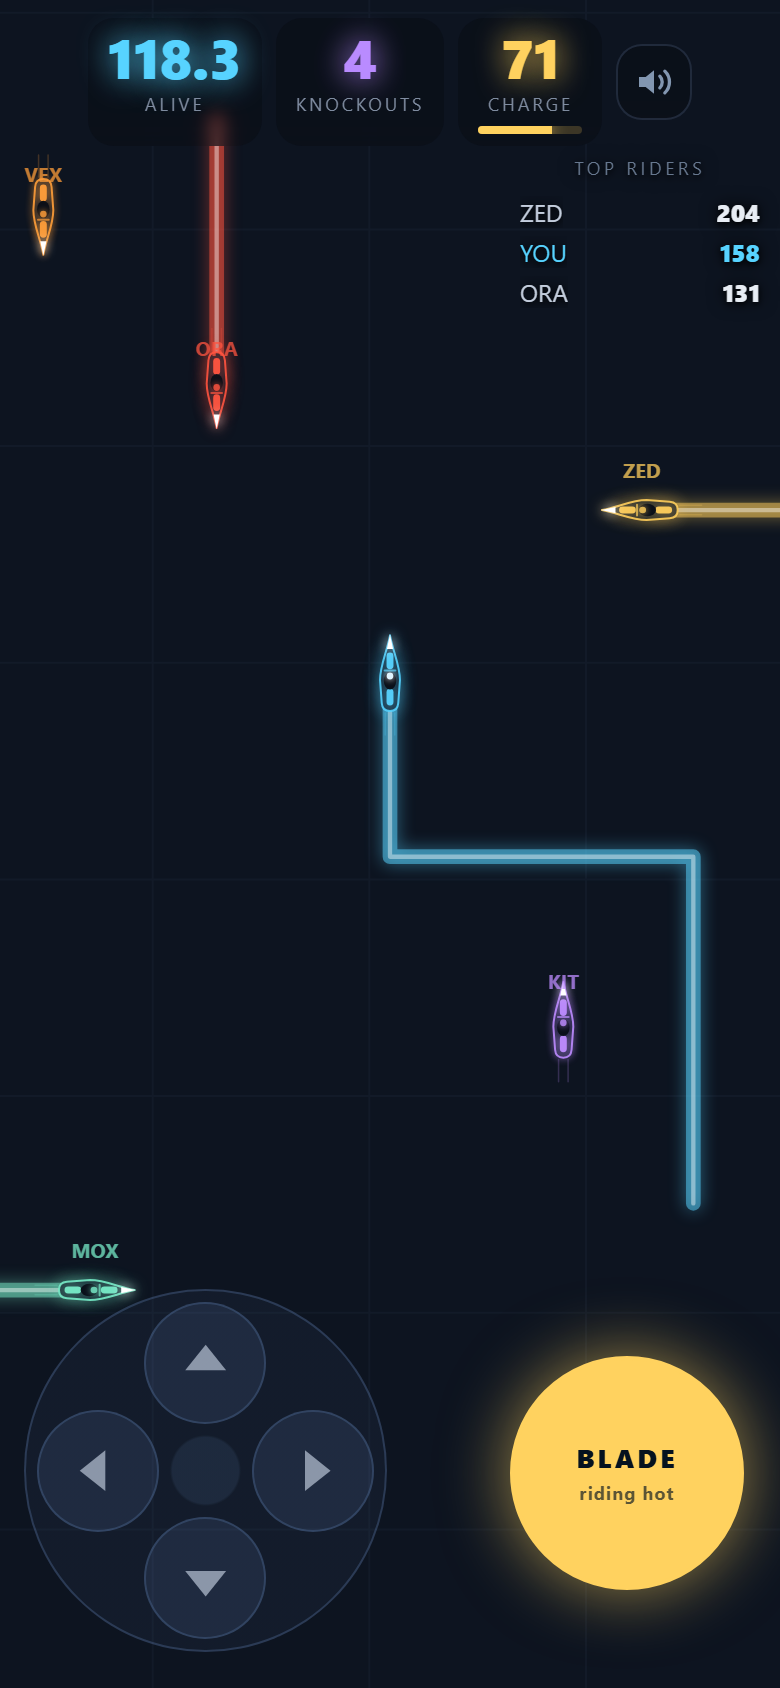
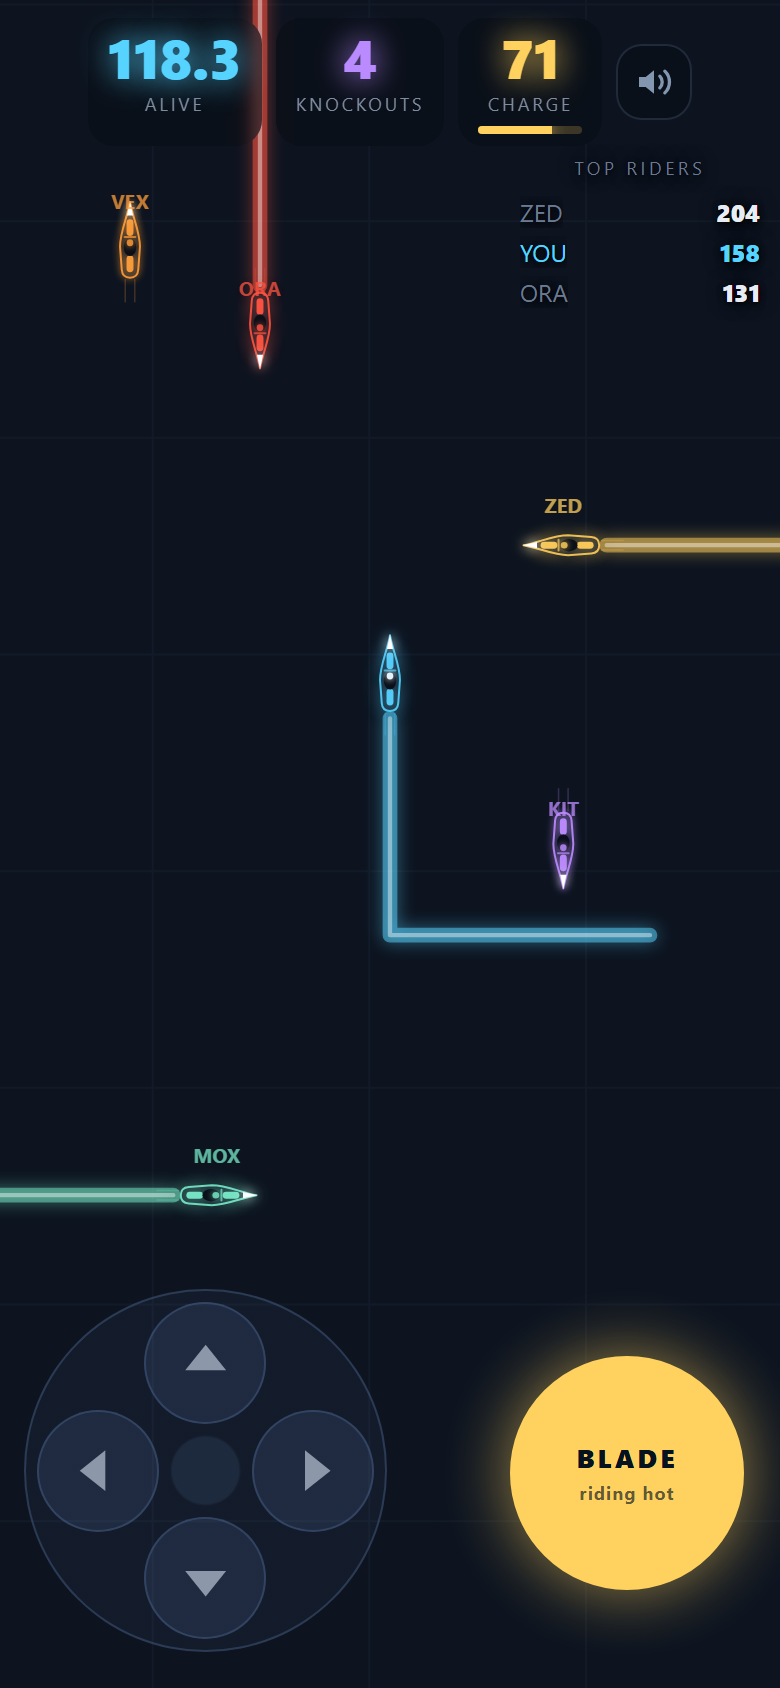
The last two press shots could not be retaken, and the strongest one was 33 points out
The two phone shots were hand-made on 30 Sep and were the only press images with no
script behind them, so they could not follow the game when its look moved. Worse, the
top-riders panel in both was typed in beside a HUD the page computes - two sources for
one number - and shot-2 had drifted: 141.6 alive and 5 knockouts is 191 by the game's
own rule, and its panel still read 158, the figure that had been right for shot-1.

press/make-phone-shot.py now redoes both from whatever index.html draws, the way the
menu and wide shots already are, and works your row out from the same myStart and myKos
the HUD reads, so the picture cannot disagree with itself again. The knockout shot is a
moment rather than a pose, so it seeds the page's own derez() and steps the page's own
frame() a quarter of a second rather than re-drawing the effect.

Measured on the way: headless Edge ignores --window-size for the layout viewport - 300,
320, 360, 390 and 500 all laid out at 484x752 - while --screenshot still writes
window-size x2. The first take lost the board's scores and half the BLADE button to
that. Everything is now moved into a 390x844 box with a transform on it, so that box is
what "fixed" is measured against.

diff --git a/press/make-phone-shot.py b/press/make-phone-shot.py
@@ -1,0 +1,186 @@
+"""Re-take press/shot-1-arena-phone.png and press/shot-2-knockout-phone.png from whatever index.html draws.
+
+Run it from the repo root: python press/make-phone-shot.py          (both shots)
+                           python press/make-phone-shot.py 2        (just the knockout one)
+
+These two were the last press images that could not be regenerated. They were shot by hand on 30 Sep,
+and the in-arena top-riders panel in them was TYPED IN next to a HUD the page computes - two sources
+for one number. It went stale exactly the way that always ends: shot-2 was retimed to 141.6 alive and
+5 knockouts, which is 191 by the game's own rule, and its panel still read 158 - the figure that had
+been right for shot-1. Off by 33 on the image the kit calls its strongest. Here your row is worked out
+from myStart and myKos the way the referee works it out, and the rows sort themselves after it, so the
+picture cannot disagree with itself again.
+
+How it works, the same way press/make-wide-shot.py and press/make-menu-shot.py do: index.html is copied
+to a scratch probe with requestAnimationFrame stubbed out, fetch left pending (nothing touches the live
+arena) and isTouch forced true, a hand-built arena is appended - no server, no socket - and headless Edge
+is asked for one screenshot at a phone's size. Quirks handled, all measured:
+  * HEADLESS EDGE IGNORES --window-size FOR THE LAYOUT VIEWPORT. Measured today at 300, 320, 360, 390 and
+    500 wide: every one laid the page out at 484x752 CSS, while --screenshot still wrote window-size x2
+    device pixels. So a phone-sized capture of a 484-wide page cut the right-hand third off - the first
+    take of this script lost the top-riders scores and half the BLADE button. The two older scripts never
+    noticed because what they shoot is centred. The fix is not to fight the window: everything is moved
+    into a 390x844 box with a transform on it, which makes that box - not the viewport - what the HUD,
+    the board, the pad and the BLADE button measure "fixed" against. --pad and --bl are pinned with it,
+    because they are written in vw and vw still means the viewport.
+  * Edge does not composite a canvas into --screenshot, so the probe hands it a plain <img> of the same
+    pixels (cv.toDataURL) BEHIND the controls, and hides the canvas. The pad and BLADE button are DOM.
+  * Back-to-back Edge runs write nothing at all, roughly every other try, hence the retry loop.
+  * Math.random is seeded before the derez, so the shards land in the same places every run and a
+    re-shoot is a re-shoot rather than a new picture.
+
+The knockout shot needs more than the mid-run one: it is a moment, not a pose, so it seeds the derez
+through the page's own derez() and then steps the page's own frame() a third of a second so the cubes
+have flown and the ring has raced out. Nothing about the effect is re-implemented here.
+"""
+import os, shutil, subprocess, sys, tempfile, time
+
+EDGE = r"C:/Program Files (x86)/Microsoft/Edge/Application/msedge.exe"
+HERE = os.path.dirname(os.path.abspath(__file__))
+ROOT = os.path.dirname(HERE)
+CSS_W, CSS_H, SCALE = 390, 844, 2     # 780x1688, the size of the two files this replaces
+
+# A phone-sized box for the page to live in, because the real viewport is whatever Edge feels like.
+# A transform on it makes it the containing block for everything position:fixed inside, so the HUD at
+# the top and the pad and BLADE button at the foot land where they land on a 390px phone. --pad and --bl
+# are vw, which a transform does not touch, so they are restated here at 46% and 30% of 390.
+FRAME = """
+<style>
+  html, body { margin: 0; overflow: hidden; background: #070a10; }
+  :root { --pad: 179.4px; --bl: 117px; }
+  #shotframe { position: fixed; left: 0; top: 0; width: %(w)dpx; height: %(h)dpx;
+               overflow: hidden; background: #070a10; transform: translateZ(0); }
+</style>
+<script>
+addEventListener('DOMContentLoaded', function () {
+  const fr = document.createElement('div');
+  fr.id = 'shotframe';
+  document.body.append(fr);
+  while (document.body.firstChild !== fr) fr.append(document.body.firstChild);
+});
+</script>
+""" % {"w": CSS_W, "h": CSS_H}
+
+# Shared by both scenes: the arena you are riding in, six bikes, two of them with nothing behind them
+# because the blade is off - which is the whole game and the reason both shots keep them.
+COMMON = """
+  const cell = (x, y) => y * W + x;
+  let born = 0;
+  function trail(id, x, y, legs) {
+    for (const [dx, dy, n] of legs) for (let i = 0; i < n; i++) { walls.set(cell(x, y), {o: id, born: born++}); x += dx; y += dy; }
+    return [x, y];
+  }
+  function bike(id, nm, x, y, d, blade, charge) {
+    bikes.set(id, {id, x, y, px: x, py: y, ox: x, oy: y, d, blade, charge});
+    names.set(id, {n: nm, bot: id !== 1 ? 1 : 0});
+  }
+  tick = 2400; tickAt = performance.now();
+  ws = {};                                   // rivals' names only draw for a real arena
+  me = 1; riding = true;
+  let seed = 90210;
+  Math.random = () => (seed = (seed * 1103515245 + 12345) & 0x7fffffff) / 0x80000000;
+"""
+
+# Your row is COMPUTED, never typed: score = whole seconds alive + 10 per knockout, read off the same
+# myStart and myKos the HUD above it reads. A hand-written number here is a second source for one number
+# and goes stale the moment the scene is retimed - which is what put 158 on a 191 picture.
+SHOW = """
+  const mine = Math.floor((tick - myStart) / 10) + 10 * myKos;
+  paintBoard(RIVALS.concat([['YOU', mine, 0]]).sort((a, b) => b[1] - a[1]).slice(0, 3));
+  $('overlay').hidden = true;
+  $('hud').hidden = $('board').hidden = $('blade').hidden = $('pad').hidden = false;
+  $('hint').hidden = true;                   // on a phone the hint is empty: the BLADE button says it
+  dpr = %(scale)d; cw = %(w)d; ch = %(h)d;
+  cv.style.width = cw + 'px'; cv.style.height = ch + 'px';
+  cv.width = cw * dpr; cv.height = ch * dpr;
+  paint();
+  for (let f = 0; f <= STEPS; f++) frame(f * 16);   // the page's own loop: ages the shards and the ring
+  draw();
+  const img = new Image();
+  img.src = cv.toDataURL('image/png');
+  img.style.cssText = 'position:fixed;left:0;top:0;width:' + cw + 'px;height:' + ch + 'px;z-index:0';
+  cv.style.display = 'none';
+  document.getElementById('shotframe').prepend(img);
+""" % {"scale": SCALE, "w": CSS_W, "h": CSS_H}
+
+# shot-1: mid-run. Your ribbon comes in along the bottom and turns up under you, a red rival is driving
+# straight down at it from above, and two riders are carrying nothing at all.
+SHOT1 = """
+  myStart = tick - 1183; myKos = 4;          // 118.3 alive + 4 knockouts = 158
+  const RIVALS = [['ZED', 204, 1], ['ORA', 131, 1], ['MOX', 96, 1], ['KIT', 74, 1]];
+  const STEPS = 0;
+  born = tick - 55; let p = trail(1, 26, 36, [[-1, 0, 6], [0, -1, 6]]);
+  bike(1, 'YOU', p[0], p[1], 'U', true, 71);
+  born = tick - 50; p = trail(1005, 17, 14, [[0, 1, 8]]);    // ORA, red, coming down at your ribbon
+  bike(1005, 'ORA', p[0], p[1], 'D', true, 44);
+  born = tick - 46; p = trail(1004, 34, 27, [[-1, 0, 10]]);  // ZED, amber, crossing from the right
+  bike(1004, 'ZED', p[0], p[1], 'L', true, 62);
+  born = tick - 24; p = trail(1007, 10, 42, [[1, 0, 6]]);    // MOX, mint, along the bottom left
+  bike(1007, 'MOX', p[0], p[1], 'R', true, 85);
+  bike(1006, 'KIT', 24, 34, 'D', false, 100);                // blade off: nothing behind him at all
+  bike(1002, 'VEX', 14, 20, 'U', false, 53);
+"""
+
+# shot-2: the moment a rival rides into your wall and comes apart. Seeded through the page's own derez()
+# at the oldest end of your ribbon - the end a rival chasing you from behind would reach first - and his
+# own wall is gone, because a knocked-out rider's wall goes with him.
+SHOT2 = """
+  myStart = tick - 1416; myKos = 5;          // 141.6 alive + 5 knockouts = 191
+  const RIVALS = [['ZED', 204, 1], ['ORA', 131, 1], ['MOX', 96, 1]];
+  const STEPS = 15;                          // ~0.24s: the cubes have flown and the ring is still bright
+  born = tick - 55; let p = trail(1, 12, 36, [[1, 0, 8], [0, -1, 6]]);
+  bike(1, 'YOU', p[0], p[1], 'U', true, 58);
+  born = tick - 44; p = trail(1004, 32, 24, [[-1, 0, 11]]);  // ZED, amber, across the top
+  bike(1004, 'ZED', p[0], p[1], 'L', true, 66);
+  born = tick - 20; p = trail(1007, 22, 40, [[1, 0, 5]]);    // MOX, mint, away to the lower right
+  bike(1007, 'MOX', p[0], p[1], 'R', true, 81);
+  bike(1006, 'KIT', 15, 27, 'D', false, 100);                // blade off: nothing behind him
+  bike(1002, 'VEX', 13, 21, 'D', false, 47);
+  // ORA came down onto the ribbon you had just laid, four cells behind you - close enough that the
+  // ring and the cubes sit inside the frame rather than half off the left edge, which is where a
+  // crash at the far end of the wall put them.
+  derez(16, 36, PALETTE[1005 % PALETTE.length], 'D');
+"""
+
+SHOTS = {
+    "1": ("shot-1-arena-phone.png", "_probe_phone1.html", SHOT1),
+    "2": ("shot-2-knockout-phone.png", "_probe_phone2.html", SHOT2),
+}
+
+
+def shoot(key):
+    name, probe_name, scene = SHOTS[key]
+    out = os.path.join(HERE, name)
+    probe = os.path.join(ROOT, probe_name)
+    page = open(os.path.join(ROOT, "index.html"), encoding="utf-8").read()
+    if page.count("<script>") != 1:
+        sys.exit("index.html no longer has exactly one <script> block - check the probe still fits")
+    if page.count("const isTouch =") != 1:
+        sys.exit("index.html no longer declares isTouch once - check the probe still fits")
+    page = page.replace("<script>", "<script>requestAnimationFrame = () => 0; fetch = () => new Promise(() => {});", 1)
+    page = page.replace("const isTouch =", "const isTouch = true ||", 1)   # a phone: the pad and the BLADE button
+    page = page.replace("</body>", FRAME + "<script>setTimeout(function () {" + COMMON + scene + SHOW + "}, 1200);</script></body>", 1)
+    open(probe, "w", encoding="utf-8", newline="").write(page)
+    profiles = tempfile.mkdtemp(prefix="retron-shot-")   # not under ROOT: these must never land in the repo
+    try:
+        if os.path.exists(out):
+            os.remove(out)
+        for i in range(6):
+            subprocess.run([EDGE, "--headless=new", "--disable-gpu", "--hide-scrollbars",
+                            "--window-size=%d,%d" % (CSS_W, CSS_H),
+                            "--force-device-scale-factor=%d" % SCALE,
+                            "--screenshot=" + out, "--virtual-time-budget=6000",
+                            "--user-data-dir=%s" % os.path.join(profiles, str(i)),
+                            "file:///" + probe.replace(os.sep, "/")], capture_output=True)
+            if os.path.exists(out):
+                print("wrote %s (%d bytes) on try %d" % (out, os.path.getsize(out), i + 1))
+                return
+            time.sleep(3)
+        sys.exit("Edge wrote no screenshot for %s in six tries" % name)
+    finally:
+        os.path.exists(probe) and os.remove(probe)
+        shutil.rmtree(profiles, ignore_errors=True)
+
+
+for k in (sys.argv[1:] or ["1", "2"]):
+    shoot(k)

diff --git a/press/launch-copy.md b/press/launch-copy.md
@@ -111,8 +111,8 @@ All four verdicts are asserted offline by `python preflight.py --self-check`.
 | `re-tron-run.gif` | 6s loop, 460x690, 0.9 MB. The whole arena from above, four riders in the warm palette (no cyan - cyan is only ever YOU, and the menu has no you). Bikes ride blank, switch the blade on, lay ribbons, box each other in, and the walls fade. Recorded from the game's own attract loop, not a mock-up. |
 | `itch-cover.png` | 1260x1000 itch cover (2x itch's 630x500, same ratio) in the Breakin/Snaked layout: the arena live behind, RE-TRON and the tagline on a dark band at the foot. |
 | `shot-0-menu.png` | The menu at phone width (1000x2080, 2x). Under itch's 2160px limit. **Retaken 17 Oct and regenerable: `python press/make-menu-shot.py`.** The first one was made by a probe that never set isTouch, so it showed the DESKTOP controls line - arrow keys, WASD, space - on the shot most people open from a phone, and an empty floor behind the menu three weeks after the attract loop was added. It now reads the thumb-pad line, says 'tap to start', and has four riders laying ribbon behind it. The board rows in it are made up (the live board is pre-launch junk) but obey the real scoring rule. |
-| `shot-1-arena-phone.png` | Mid-run on a phone: six bikes, your ribbon curling back under you, one rider heading straight at it. Shows the arrow pad and the BLADE button. Shot 30 Sep and **not regenerable - there is no script for the two phone shots**. Checked 19 Oct: its numbers do agree (118.3 alive + 4 knockouts = 158, which is what the panel says). |
-| `shot-2-knockout-phone.png` | The moment a rival rides into your wall and derezzes into tumbling cubes. Strongest single image. Shot 30 Sep and **not regenerable**. **Its numbers do NOT agree** (measured 19 Oct): the HUD reads 141.6 alive and 5 knockouts, which is 191, while the panel still says 158 - the figure that was right for shot-1. Off by 33, and the only fix is a phone generator that does not exist yet. Prefer shot-1 or shot-3 anywhere the numbers can be read. |
+| `shot-1-arena-phone.png` | Mid-run on a phone: six bikes, your ribbon curling back under you, one rider heading straight at it. Shows the arrow pad and the BLADE button. **Retaken 19 Oct and regenerable: `python press/make-phone-shot.py`** (that script redoes this one and shot-2 together; `python press/make-phone-shot.py 1` does only this one). Its numbers agree and now cannot stop agreeing: 118.3 alive + 4 knockouts = 158, and the 158 in the panel is worked out from the same two numbers the HUD above it reads rather than typed in beside them. |
+| `shot-2-knockout-phone.png` | The moment a rival rides into your wall and derezzes into tumbling cubes. Strongest single image. **Retaken 19 Oct and regenerable: `python press/make-phone-shot.py 2`.** The one it replaces was shot by hand on 30 Sep and disagreed with itself: its HUD read 141.6 alive and 5 knockouts, which is 191 by the game's own rule, while the panel beside it still said 158 - the figure that had been right for shot-1 before this scene was retimed. Off by 33 on the strongest image in the kit. The panel is now computed from the same myStart and myKos the HUD uses, so there is one source for the number and it reads 191. All four shots are regenerable now; if the look of the arena changes, run the scripts rather than trusting this file. |
 | `shot-3-arena-wide.png` | 1280x720 on a computer, keyboard HUD. Good for a page header. **Retaken 19 Oct and regenerable: `python press/make-wide-shot.py`.** Retaken because the picture disagreed with itself: the HUD read 203.9 alive and 6 knockouts, which is 263 by the game's own rule, while the top-riders panel beside it said 158 and sat you second on a board you were top of. That row was typed in by hand next to a HUD that is computed, so it went stale the moment the scene was retimed; it is now worked out from the same two numbers the HUD uses and the rows sort themselves. Before that, the first one was shot on 30 Sep, the day before the camera changed, so it showed the arena floating in black down both sides — a layout the game no longer has. If the look of the arena ever changes again, run that script rather than trusting this file. |
 
 ## Repacking the zip
